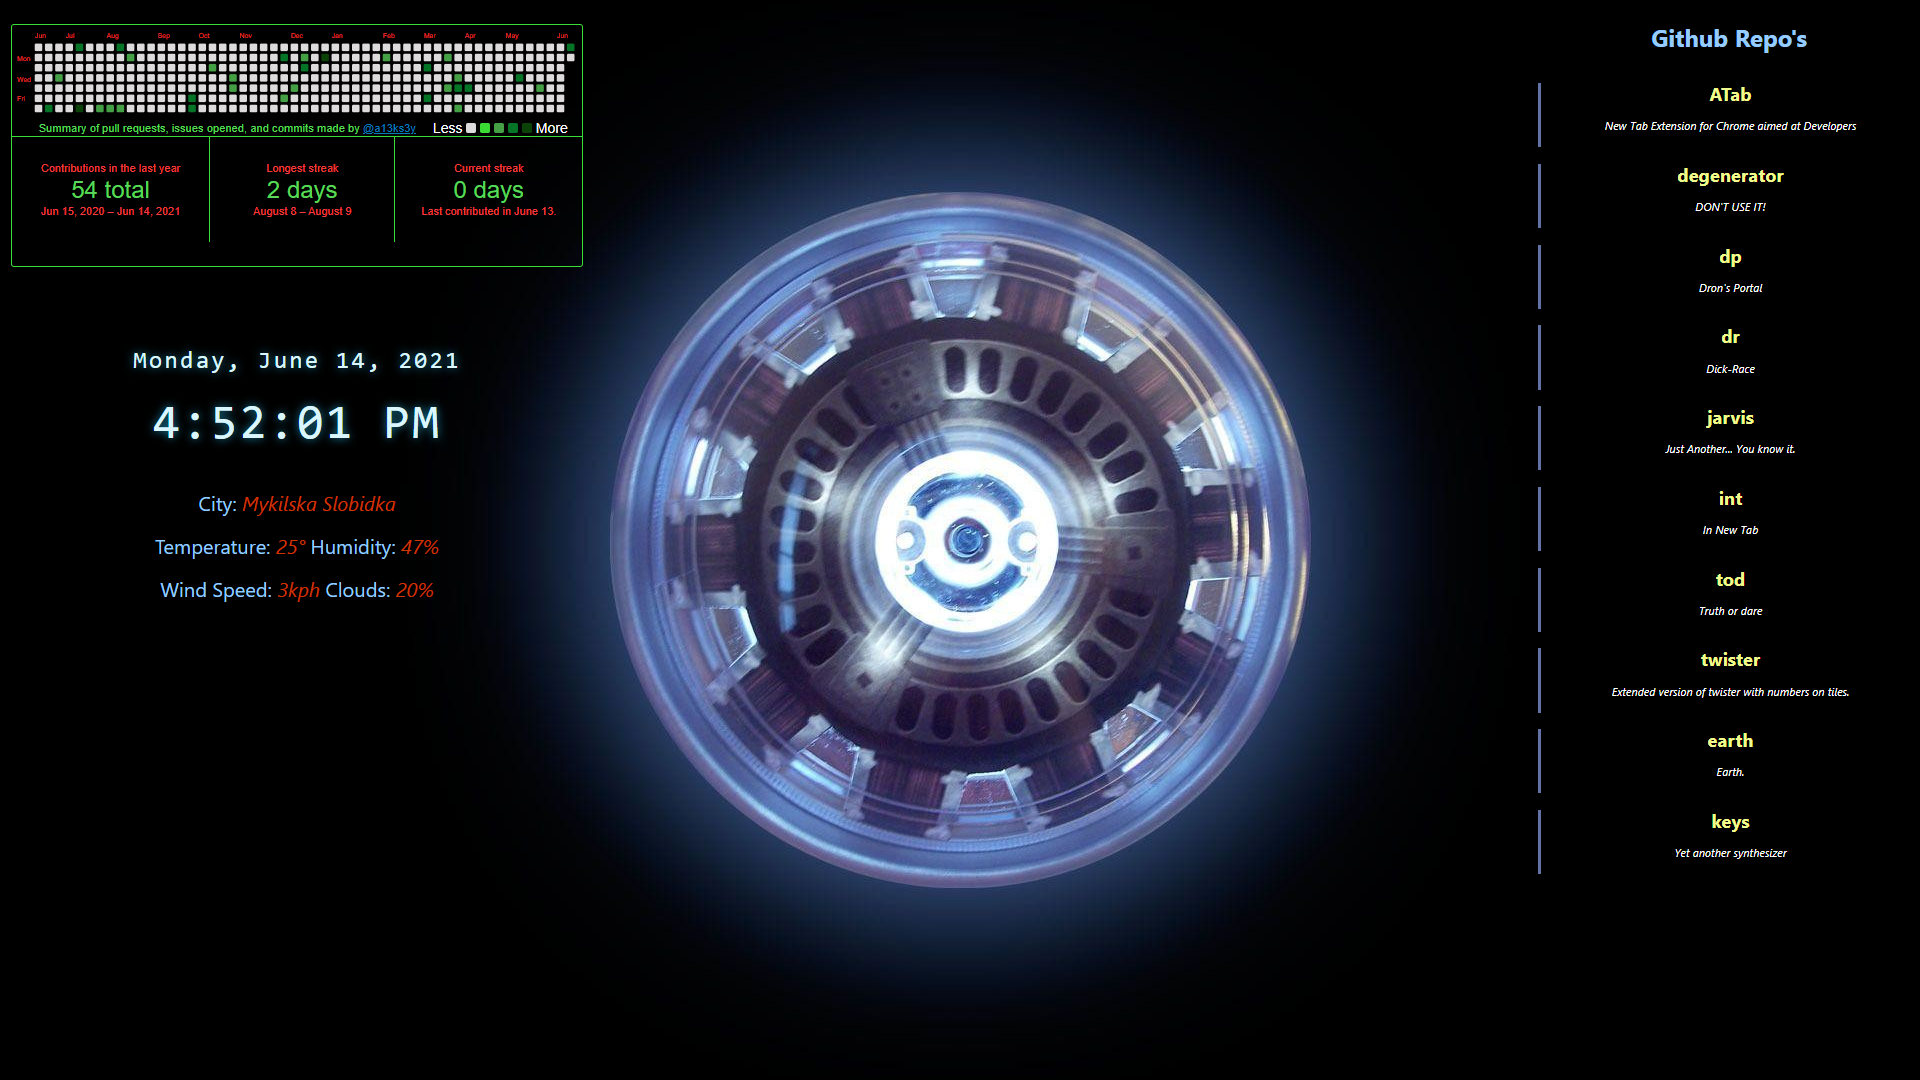
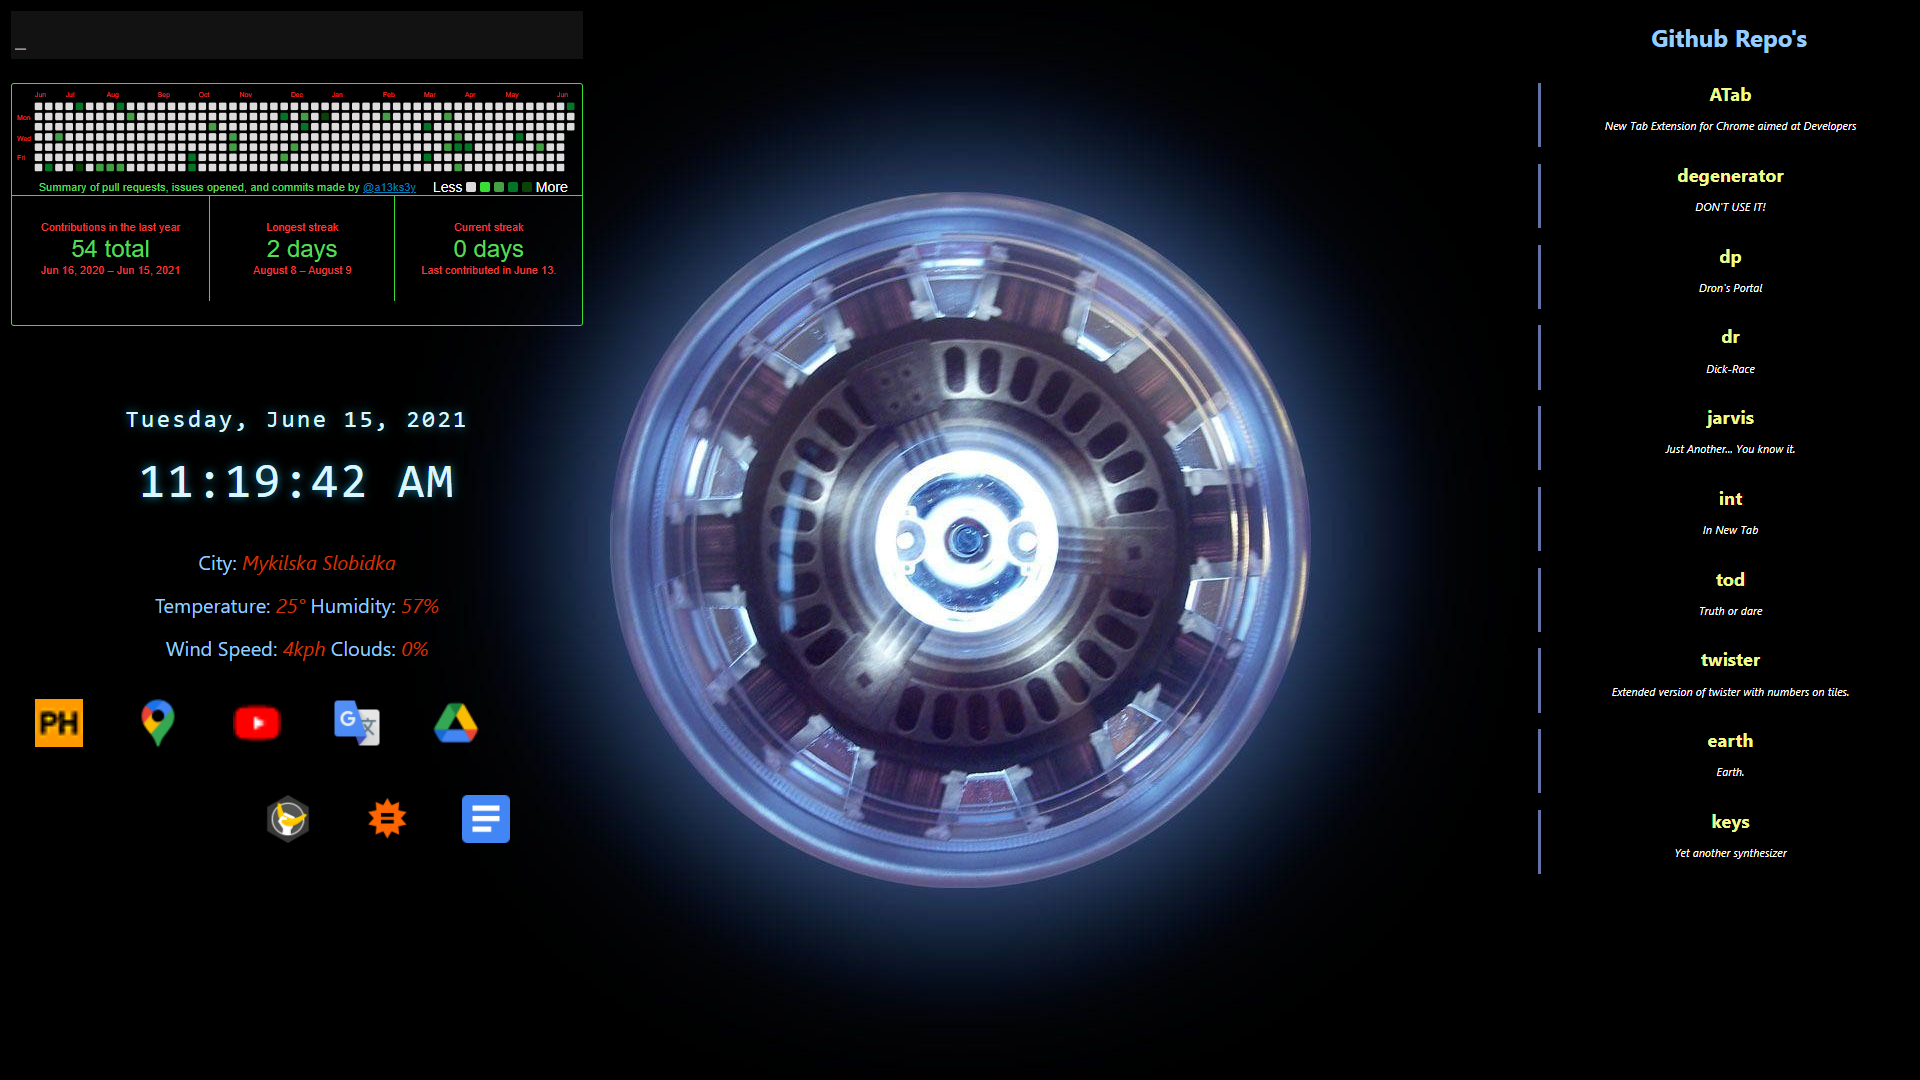
permanent bookmarks

diff --git a/src/override/override.html b/src/override/override.html
@@ -15,29 +15,61 @@
         <div class="fl w-30">
           <div class="fl w-100">
             <form action="https://www.google.com/search" method="GET" name="search">
-              <input type="text" name="q" class="w-100" placeholder="Google" onkeyup="if (event.key === 'Enter') document.forms.search.submit();"/>
+              <input type="text" name="q" class="w-100" placeholder="_" onkeyup="if (event.key === 'Enter') document.forms.search.submit();"/>
             </form>
           </div>
-    
-          <h3 class="f3 tc light-blue"><!-- @todo: 5 (or more) switches, like in planes with sound --></h3>
-          <div id="calendar-start" class="calendar"></div>
-          <div id="clock-place" class="clock-container pt5 tc">
-            <div id="date" class="tc pa3"></div>
-            <br />
-            <div id="clock" class="tc f1 pa1"></div>
-            <div class="weather-container pt3">
-              <p class="light-blue weather-text">
-                City: <span id="city" class="orange i"></span>
-              </p>
-              <p class="light-blue weather-text">
-                Temperature: <span id="temp" class="orange i"></span>Humidity:
-                <span id="humidity" class="orange i"></span>
-              </p>
-              <p class="light-blue weather-text">
-                Wind Speed: <span id="wind" class="orange i"></span>Clouds:
-                <span id="sky" class="orange i"></span>
-              </p>
+
+          <div class="fl w-100">
+            <h3 class="f3 tc light-blue"><!-- @todo: 5 (or more) switches, like in planes with sound --></h3>
+            <div id="calendar-start" class="calendar"></div>
+            <div id="clock-place" class="clock-container pt5 tc">
+              <div id="date" class="tc pa3"></div>
+              <br />
+              <div id="clock" class="tc f1 pa1"></div>
+              <div class="weather-container pt3">
+                <p class="light-blue weather-text">
+                  City: <span id="city" class="orange i"></span>
+                </p>
+                <p class="light-blue weather-text">
+                  Temperature: <span id="temp" class="orange i"></span>Humidity:
+                  <span id="humidity" class="orange i"></span>
+                </p>
+                <p class="light-blue weather-text">
+                  Wind Speed: <span id="wind" class="orange i"></span>Clouds:
+                  <span id="sky" class="orange i"></span>
+                </p>
+              </div>
             </div>
+  
+          </div>
+          <div class="fl w-90">
+            <a class="permanent-bookmark" href="https://www.pornhubpremium.com/model/a13ks3y/playlists/public">
+              <img src="https://di.phncdn.com/www-static/favicon.ico" alt="PH" />
+            </a>            
+            <a class="permanent-bookmark" href="https://www.google.com/maps/">
+              <img src="https://www.google.com/images/branding/product/ico/maps15_bnuw3a_32dp.ico" alt="🗺" />
+            </a>            
+            <a class="permanent-bookmark" href="https://www.youtube.com/">
+              <img src="https://www.youtube.com/s/desktop/37d1da14/img/favicon.ico" alt="📽" />
+            </a>            
+            <a class="permanent-bookmark" href="https://translate.google.com/">
+              <img src="https://ssl.gstatic.com/translate/favicon.ico" alt="🧏♂" />
+            </a>            
+
+            <a class="permanent-bookmark" href="https://drive.google.com/drive/my-drive">
+              <img src="https://ssl.gstatic.com/images/branding/product/1x/drive_2020q4_32dp.png" alt="" />
+            </a>            
+          </div>
+          <div class="fr w-60">
+            <a class="permanent-bookmark" href="http://a13ks3y.github.io/" >
+              <img src="https://a13ks3y.github.io/banana-favicon.png" alt="🍌" />
+            </a>            
+            <a class="permanent-bookmark" href="https://www.wolframalpha.com/">
+              <img src="https://www.wolframalpha.com/favicon.ico" alt="🐺" />
+            </a>            
+            <a class="permanent-bookmark" href="https://docs.google.com/document/u/0/">
+              <img src="https://ssl.gstatic.com/docs/documents/images/kix-favicon7.ico" alt="📄" />
+            </a>            
           </div>
         </div>
 

diff --git a/css/override.css b/css/override.css
@@ -533,3 +533,89 @@ label {
     margin-top: -15px;
   }
 }
+
+.permanent-bookmark, .permanent-bookmark:hover, .permanent-bookmark:visited, .permanent-bookmark:active {
+  font-size: 3rem;
+  text-decoration: none;
+  text-align: center;
+  padding: 0;
+  vertical-align: middle;
+  width: 6rem;
+  height: 6rem;
+  line-height: 6rem;
+  display: inline-block;
+}
+.permanent-bookmark img {
+  width: 3rem;
+}
+
+.permanent-bookmark:nth-child(1) {
+  animation: awesome-effect-1 1.666s ease-in-out 0ms 1;
+}
+@keyframes awesome-effect-1 {
+  from {
+    transform: translate(140vw, -130vh);
+  }
+  to {
+    transform: translate(0, 0);
+  }
+}
+
+.permanent-bookmark:nth-child(2) {
+  animation: awesome-effect-2 1.666s ease-in-out 0ms 1;
+  
+}
+@keyframes awesome-effect-2 {
+  from {
+    transform: translate(-140vw, 130vh);
+
+  }
+  to {
+    transform: translate(0, 0);
+  }
+}
+
+
+
+.permanent-bookmark:nth-child(3) {
+  animation: awesome-effect-3 1.666s ease-in-out 0ms 1;
+}
+@keyframes awesome-effect-3 {
+  from {
+    transform: translate(-140vw, -130vh);
+  }
+  to {
+    transform: translate(0, 0);
+  }
+}
+
+.permanent-bookmark:nth-child(4) {
+  animation: awesome-effect-4 1.666s ease-in-out 0ms 1;  
+}
+@keyframes awesome-effect-4 {
+  from {
+    transform: translate(140vw, 130vh);
+
+  }
+  to {
+    transform: translate(0, 0);
+  }
+}
+.permanent-bookmark:nth-child(5) {
+  animation: awesome-effect-5 1.666s ease-in-out 0ms 1;  
+}
+@keyframes awesome-effect-5 {
+  from {
+    transform: translate(160vw, -60vh);
+
+  }
+  to {
+    transform: translate(0, 0);
+  }
+}
+
+input[name=q] {
+  font-size: 1.666rem;
+  height: 3rem;
+  margin-top: 0.666rem;
+}

diff --git a/CHANGELOG.md b/CHANGELOG.md
@@ -2,6 +2,9 @@
 
 ### Any notable changes and version notes will be kept in this file.
 
+## v1.1.0
+- Permanent bookmarks with awesome 😎 animation 💥 effects!!!
+
 ## v1.0.1
 ### BREAKING CHANGES
 - Twitter, dev.to, bookmarks - removed
